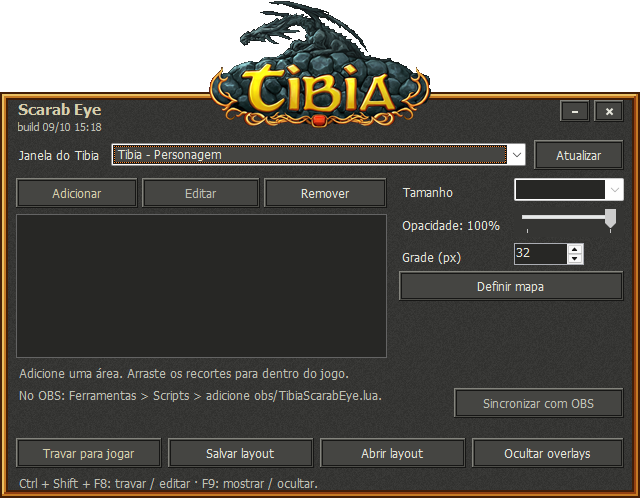
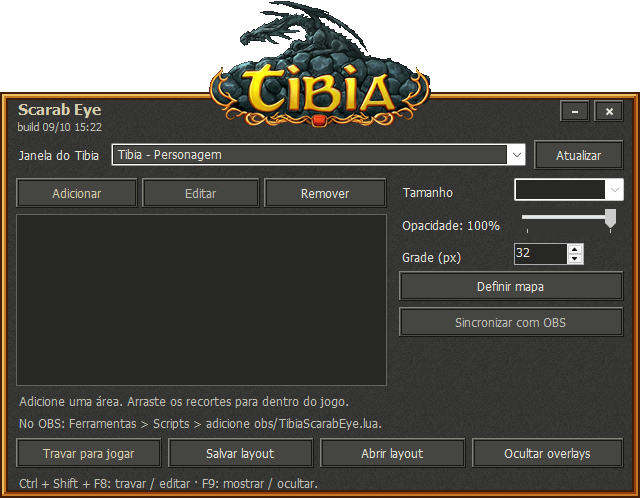
fix(ui): move Sincronizar com OBS para baixo de Definir mapa
O botao ocupa a coluna da direita com a mesma largura dos vizinhos; a
linha do OBS passa a ter so o texto de status.

diff --git a/src/TibiaScarabEye/UI/MainForm.cs b/src/TibiaScarabEye/UI/MainForm.cs
@@ -58,17 +58,16 @@ internal sealed class MainForm : FramelessForm {
         var mapButton=Theme.Button("Definir mapa",false); mapButton.Anchor=AnchorStyles.Left|AnchorStyles.Right; mapButton.Click+=delegate { DefineMapArea(); };
         var gridCaption=Theme.Caption("Grade (px)");
         tips.SetToolTip(gridCaption,"Tamanho da célula da grade do mapa, em pixels"); tips.SetToolTip(gridCell,"Tamanho da célula da grade do mapa, em pixels"); tips.SetToolTip(mapButton,"Define a área do jogo onde a grade do mapa é desenhada");
+        obsCapture=Theme.Button("Sincronizar com OBS",true); obsCapture.Anchor=AnchorStyles.Left|AnchorStyles.Right; obsCapture.Margin=new Padding(0,6,0,0); obsCapture.Click+=delegate { ToggleObsOutput(); };
         var fields=Table(Columns(AutoColumn(),PercentColumn(100)),Theme.Caption("Tamanho"),zoom,opacityLabel,opacity,gridCaption,gridCell);
-        side=Table(Columns(PercentColumn(100)),fields,mapButton); side.Dock=DockStyle.Top; var right=side;
+        side=Table(Columns(PercentColumn(100)),fields,mapButton,obsCapture); side.Dock=DockStyle.Top; var right=side;
         var main=body=Table(Columns(PercentColumn(100),AutoColumn()),left,right);
         main.RowStyles[0]=new RowStyle(SizeType.Percent,100);
 
         detail=Theme.Note("Adicione uma área. Arraste os recortes para dentro do jogo.");
-        obsCapture=Theme.Button("Sincronizar com OBS",true); obsCapture.Anchor=AnchorStyles.Top|AnchorStyles.Right; obsCapture.Width=170; obsCapture.Click+=delegate { ToggleObsOutput(); };
         tips.SetToolTip(obsCapture,"A Captura de jogo do Tibia fica direto na cena do OBS; as overlays viram grupos. Usa a imagem já capturada, não recaptura a tela.");
         obsStatus=Theme.Note("No OBS: Ferramentas > Scripts > adicione obs/TibiaScarabEye.lua.");
-        obsStatus.Margin=new Padding(0,0,10,0);
-        var obs=Table(Columns(PercentColumn(100),AutoColumn()),obsStatus,obsCapture);
+        var obs=obsStatus;
 
         mode=Theme.Button("Travar para jogar",true); var save=Theme.Button("Salvar layout",false); var load=Theme.Button("Abrir layout",false); visibility=Theme.Button("Ocultar overlays",false);
         mode.Click+=delegate { ToggleMode(); }; save.Click+=delegate { SaveLayout(); }; load.Click+=delegate { OpenLayout(); }; visibility.Click+=delegate { ToggleVisibility(); };
